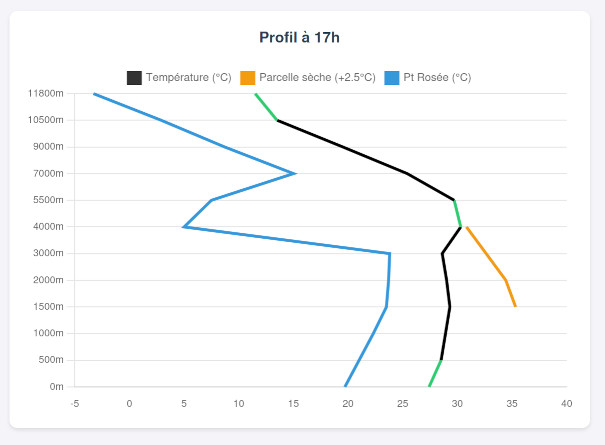
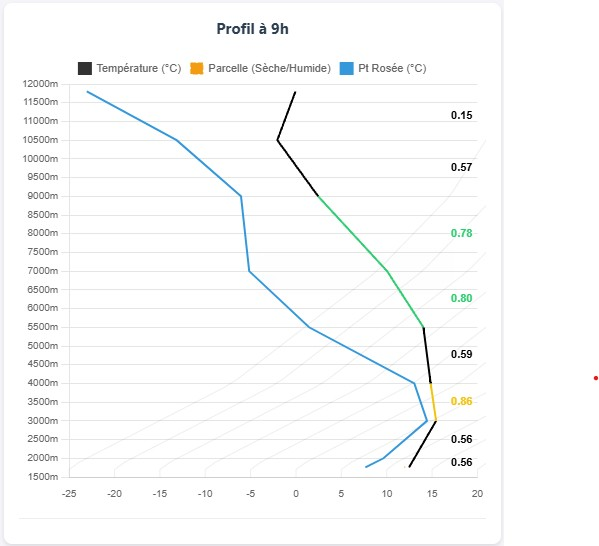
Update screenshots and evol

diff --git a/index.html b/index.html
@@ -107,8 +107,8 @@
             overflow-x: hidden;
             padding: 20px;
             background-color: var(--bg-color);
-            /* border-left supprimé car le resizer joue le rôle de bordure */
             box-shadow: 0 8px 24px rgba(149, 157, 165, 0.15);
+            position: relative; /* Indispensable pour ancrer le menu de configuration ici */
         }
 
         .top-bar {
@@ -1596,6 +1596,7 @@
                             }
 
                             // 2. Dessiner le nuage (zone grise) SI la particule dépasse le LCL
+                            // 2. Dessiner le nuage (zone grise) SI la particule dépasse le LCL
                             if (cloudZone && cloudZone.length === 2) {
                                 const yBottom = y.getPixelForValue(cloudZone[0]); 
                                 const yTop = y.getPixelForValue(cloudZone[1]);    
@@ -1609,6 +1610,55 @@
                                 ctx.fillText('☁', (chartArea.right - chartArea.left) / 2, yTop + Math.max(15, (yBottom - yTop)/2));
                                 ctx.restore();
                             }
+                        }, // <--- Attention à bien ajouter cette virgule
+                        
+                        // --- NOUVEAU : Affichage des valeurs de gradients sur la droite ---
+                        afterDraw: (chart) => {
+                            const { ctx, chartArea, scales: { y } } = chart;
+                            if (!chartArea) return;
+
+                            ctx.save();
+                            ctx.textAlign = 'right';
+                            ctx.textBaseline = 'middle';
+                            ctx.font = 'bold 11px sans-serif';
+                            ctx.lineJoin = 'round';
+
+                            // On parcourt les segments de bas en haut
+                            for (let i = 0; i < envData.length - 1; i++) {
+                                const d0 = envData[i];
+                                const d1 = envData[i+1];
+                                const dz = d1.z - d0.z;
+                                const dt = d0.t - d1.t; 
+                                
+                                if (dz > 0) {
+                                    const lapseRate = (dt / dz) * 100;
+                                    
+                                    // Détermination de la couleur selon vos seuils
+                                    let color = '#000000';
+                                    if (lapseRate >= appConfig.lapse5) color = '#9b59b6';
+                                    else if (lapseRate >= appConfig.lapse4) color = '#e74c3c';
+                                    else if (lapseRate >= appConfig.lapse3) color = '#e67e22';
+                                    else if (lapseRate >= appConfig.lapse2) color = '#f1c40f';
+                                    else if (lapseRate >= appConfig.lapse1) color = '#2ecc71';
+
+                                    // Calcul de la position verticale (au milieu du segment)
+                                    const py0 = y.getPixelForValue(d0.z);
+                                    const py1 = y.getPixelForValue(d1.z);
+                                    const pyMid = (py0 + py1) / 2;
+                                    
+                                    const text = lapseRate.toFixed(2);
+                                    
+                                    // Contour blanc de protection pour la lisibilité
+                                    ctx.lineWidth = 3;
+                                    ctx.strokeStyle = 'rgba(255,255,255,0.8)';
+                                    ctx.strokeText(text, chartArea.right - 5, pyMid);
+                                    
+                                    // Texte coloré
+                                    ctx.fillStyle = color;
+                                    ctx.fillText(text, chartArea.right - 5, pyMid);
+                                }
+                            }
+                            ctx.restore();
                         }
                     }
                 ]

diff --git a/README.md b/README.md
@@ -1,8 +1,8 @@
 # 🌤 Ma Météo
 
-Une application web interactive pour visualiser et analyser les données météorologiques en détail ! 
+Faire sa météo rapidement avant d'aller voller.
 
-Explorez les conditions atmosphériques à travers des cartes intuitives, des tableaux de vent détaillés et des émagrammes professionnels.
+Explorez les conditions atmosphériques facilement.
 
 [Application web](https://01ive.github.io/maMeteo/)
 
@@ -63,71 +63,116 @@ Personnalisez l'affichage des données selon vos besoins et préférences.
 
 #### ☁ Nébulosité
 
-Un nuage se forme lorsque l'air est saturé en humidité (100%). Sur un sondage, cela se traduit visuellement par la rencontre de la courbe de Température et de la courbe du Point de rosée.
+Dans l’interface, la couverture nuageuse affichée n’est pas une valeur brute de l’API. Elle est dérivée de l’humidité relative calculée à partir de la température et du point de rosée :
 
-Il suffit de calculer l'écart entre ces deux valeurs (ce qu'on appelle le Spread).
-* Si $T - T_d \le 1.5^\circ\text{C}$ : C'est un nuage dense (fond gris foncé).
-* Si $T - T_d \le 3.0^\circ\text{C}$ : L'air est très humide, bordure de nuage ou brouillard léger (fond gris très clair).
+$$e(T) = 6.112 \times e^{17.67T / (T + 243.5)}$$
+
+$$RH = \frac{e(T_d)}{e(T)} \times 100$$
+
+Ensuite, l’application applique un proxy visuel de couverture nuageuse :
+
+- si $RH < 80\%$, la valeur est fixée à $0$ ;
+- si $RH \ge 80\%$, elle devient :
+
+$$C_{nuage} = \min\left(100,\,(RH - 80) \times 5\right)$$
+
+Cette valeur sert à l’opacité des cellules de la grille et à la teinte de la zone nuageuse dans l’émagramme. Elle ne représente pas une couverture nuageuse météorologique absolue, mais un indicateur visuel de humidité et de probabilité de présence de nuages.
 
 #### 📈 Instabilité
 
-Pour modéliser le plafond thermique de manière autonome, nous appliquons la méthode météorologique classique du soulèvement de la parcelle d'air :
+Pour modéliser le plafond thermique, l’application simule l’ascension d’une parcelle d’air depuis la surface avec un offset configurable :
 
-- **Le déclencheur** : On prend la température au sol prévue par le modèle à laquelle on ajoute un "déclencheur" de surchauffe (ici $+2.5^\circ\text{C}$) pour simuler une bulle d'air qui se détache du sol.
+$$T_{parcel,0} = T_{base} + \text{parcelOffset}$$
 
-⚠ La température au **sol à 2m** donnée par les models est souvent différente de la température de la **courbe de température**. Celà donne donc lieu à des **décallages**.
+Par défaut, $	ext{parcelOffset} = 0^\circ\text{C}$, mais il peut être modifié dans la configuration.
 
-- **Le gradient adiabatique sec** : On simule la montée de cette bulle. En s'élevant et en se dilatant, elle se refroidit d'environ $0.98^\circ\text{C}$ tous les $100\text{m}$.
+À chaque pas de $20\text{m}$, la parcelle évolue selon deux régimes :
 
-- **Le calcul** : Pour chaque niveau d'altitude $Z$, on calcule la température de la bulle avec la formule : $T_{parcelle} = T_{sol} + 2.5 - \left(\frac{Z}{100} \times 0.98\right)$
+- hors nuage : gradient adiabatique sec :
+  $$\Gamma_{sec} = -0.0098^\circ\text{C/m}$$
+- si la parcelle a atteint la base de nuage estimée par :
+  $$z_{cloudBase} = z_{base} + \max\left(0,\,(T_{base} - T_{d,base}) \times 125\right)$$
+  alors le calcul bascule sur un gradient pseudo-adiabatique humide, avec :
+  $$T_k = T_{parcel} + 273.15$$
+  $$e_s = 6.112 \times e^{17.67T_{parcel}/(T_{parcel} + 243.5)}$$
+  $$w_s = \frac{0.622 \times e_s}{P - e_s}$$
+  $$L = 2501000 - 2370T_{parcel}$$
+  $$\Gamma_{hum} = -\frac{9.80665}{1004} \times \frac{1 + \frac{Lw_s}{287.05T_k}}{1 + \frac{0.622L^2w_s}{1004 \times 287.05 \times T_k^2}}$$
 
-- **L'inversion** : On compare cette température à l'air environnant ($T_{env}$). Tant que $T_{parcelle} \ge T_{env}$, la bulle est plus chaude que l'air autour d'elle et continue de monter. Dès qu'elle devient plus froide, le thermique s'arrête net : c'est notre plafond espéré.
+Après chaque incrément, l’application applique un entraînement de $1\%$ à chaque pas de $20\text{m}$ :
 
-L'algorithme calcule ce processus pour les 24 heures et appliquer un trait rouge en bas de la cellule correspondante.
+$$T_{parcel,new} = T_{parcel} \times 0.99 + T_{env} \times 0.01$$
 
-**La base du nuage** : Si cette bulle invisible atteint le point de saturation (100% d'humidité) pendant sa montée, un nuage commence à se former. C'est le niveau de condensation, et cela correspond généralement à notre trait rouge.
+La parcelle cesse de monter dès que $T_{parcel} \le T_{env}$. Le plafond affiché est alors défini comme suit :
 
-**Le haut du nuage** (⚠ non représenté): Une fois que le nuage se forme, la physique change radicalement. La condensation de la vapeur d'eau en gouttelettes libère de l'énergie (la chaleur latente). L'air à l'intérieur du nuage se refroidit alors beaucoup moins vite en montant (environ 0,5°C tous les 100m). Grâce à ce "moteur" thermique interne, l'air du nuage reste plus chaud que l'extérieur et continue de monter, formant le développement vertical du nuage.
+- dans la grille, le plafond est la hauteur atteinte par la parcelle, puis il est ramené à la base du nuage si la parcelle est entrée dans la zone nuageuse :
+  $$\text{exactAlt} = \max\left(z_{cloudBase}, z_{base}\right) \quad \text{si } \text{exactAlt} > z_{cloudBase}$$
+- dans l’émagramme, la ligne de plafond exploitable correspond à :
+  $$\text{plafondAlt} = \min\left(z_{top}, z_{cloudBase}\right)$$
 
-### 📊 L'émagramme
+Cette logique permet d’afficher un plafond “exploitable” et de bloquer le trait rouge si le thermique entre dans la zone nuageuse.
 
-Le diagramme thermodynamique pour analyser la stabilité atmosphérique et les phénomènes de convection.
+### 📊 L’émagramme
 
-### 🌈 Coloration de l'émagramme
+Le diagramme thermodynamique a été enrichi pour rendre plus lisibles les zones instables, la base des nuages et le plafond exploitable. L’émagramme affiche maintenant :
 
-On colorise la courbe de l'adiabatique séche via le gradient thermique vertical (le taux de refroidissement de l'air avec l'altitude) de la façon suivante :
+- une courbe de température de l’environnement,
+- une parcelle d’air ascendante,
+- un point de rosée,
+- une zone grisée pour représenter la couche nuageuse,
+- une ligne rouge de plafond thermique.
 
-* 🔴 **Rouge** (> 0.9°C/100m) : Masse d'air très instable (proche ou supérieure à l'adiabatique sèche). Les ascendances thermiques seront fortes et l'air monte facilement.
-* ⬛ **Noir** (0.6 à 0.9°C/100m) : Instabilité conditionnelle (ou instabilité latente).
-* 🟢 **Vert** (< 0.6°C/100m) : Masse d'air stable (adiabatique humide, isothermie ou inversion de température). Les mouvements verticaux sont bloqués.
+### 🌈 Coloration de l’émagramme
+
+La coloration de l’émagramme suit le gradient thermique local entre deux niveaux de l’atmosphère, calculé en °C / 100 m selon la formule :
+
+$$\text{lapseRate} = \frac{T_{env}(z_0) - T_{env}(z_1)}{z_1 - z_0} \times 100$$
+
+Dans le code, les seuils par défaut sont ceux définis dans la configuration de l’application :
+
+- **lapse1 = 0.6** : seuil de transition vers le vert
+- **lapse2 = 0.8** : seuil de transition vers le jaune
+- **lapse3 = 1.0** : seuil de transition vers l’orange
+- **lapse4 = 1.2** : seuil de transition vers le rouge
+- **lapse5 = 1.4** : seuil de transition vers le violet
+
+La correspondance utilisée est donc :
+
+* 🟣 **Violet** ($\ge 1.4$ °C/100m) : très forte instabilité, très proche de l’adiabatique sèche.
+* 🔴 **Rouge** ($\ge 1.2$ °C/100m) : forte instabilité.
+* 🟠 **Orange** ($\ge 1.0$ °C/100m) : instabilité marquée.
+* 🟡 **Jaune** ($\ge 0.8$ °C/100m) : instabilité modérée.
+* 🟢 **Vert** ($\ge 0.6$ °C/100m) : couche plutôt stable.
+* ⬛ **Noir** (< 0.6 °C/100m) : stabilité forte, isothermie ou inversion de température.
+
+Cette logique est utilisée pour colorer la courbe de température de l’environnement et rendre immédiatement visibles les couches qui favorisent ou bloquent la convection.
 
 #### 📐 Skew-T (Diagramme incliné)
 
-Dans les représentations météorologiques classiques, on "couche" (on incline) les lignes de température vers la droite. Pourquoi ? Parce que dans la troposphère, la température baisse naturellement avec l'altitude. En inclinant le graphique, une masse d'air standard apparaît comme une ligne verticale, ce qui permet à l'œil humain de repérer beaucoup plus facilement les anomalies, les inversions thermiques et les zones d'instabilité (comme la fameuse CAPE pour les orages ou les thermiques).
+Dans les représentations météorologiques classiques, on incline les lignes de température vers la droite pour compenser la baisse naturelle de température avec l’altitude. L’objectif est d’obtenir une masse d’air standard quasi verticale, ce qui rend beaucoup plus visibles les anomalies et les zones d’instabilité.
 
-Sur un graphique cartésien classique (Température en X, Altitude en Y), la courbe de température d'une atmosphère standard part en diagonale vers la gauche, car l'air se refroidit en montant (on perd environ 6.5°C tous les 1000m).
+Pour reproduire cet effet dans Chart.js, l’application applique à chaque point une déformation X proportionnelle à la chute de pression entre le bas du graphique et le niveau considéré :
 
-Le problème, c'est que l'œil humain repère très mal les petites variations sur une ligne en diagonale. Les météorologues ont donc inventé le Skew-T : ils inclinent ("skew") les lignes de température vers la droite pour compenser ce refroidissement naturel. Ainsi, une masse d'air standard apparaît presque verticale, et la moindre instabilité saute aux yeux.
+$$T_{skew} = T_{reel} + k \times \left(p_{bottom} - p\right)$$
 
-Pour incliner la courbe dans Chart.js (qui ne fait que des graphiques droits), nous appliquons cette formule à chaque point :$$T_{skew} = T_{reel} + k \times (1000 - P)$$
+- $T_{skew}$ : la température fictive utilisée pour le tracé.
+- $T_{reel}$ : la température réelle de l’air.
+- $k$ : le facteur SKEW_FACTOR.
+- $p_{bottom}$ : la pression au bas du graphique, calculée à partir de la base visible de la fenêtre :
+  $$p_{bottom} = \text{getEnvAtZ}(z_{bottom}).hpa$$
+  avec
+  $$z_{bottom} = \left\lfloor \frac{\text{elevation}}{500} \right\rfloor \times 500$$
+- $p$ : la pression du niveau considéré.
 
-$T_{skew}$ : La fausse température donnée au graphique pour décaler le point.
-
-$T_{reel}$ : La vraie température physique.$k$ : Notre fameux SKEW_FACTOR.
-
-$P$ : La pression du palier en hPa.
-
-$1000$ : Notre niveau de référence (le sol).
+Dans l’implémentation actuelle, $p_{bottom}$ n’est donc pas figé à 1000 hPa, mais défini à partir de la zone réellement affichée dans l’émagramme, ce qui rend le décalage cohérent avec la plage d’altitude visible.
 
 ##### 💡 Pourquoi exactement 0.08 ?
 
-Le choix de 0.08 est un compromis visuel parfait pour la taille de notre fenêtre web et notre plage d'altitude. Faisons le calcul avec la plus haute altitude de notre tableau (200 hPa, soit 11 800m) :
+Le choix de 0.08 reste un bon compromis visuel pour la taille de la fenêtre web et la plage d’altitude affichée. Avec un écart de pression d’environ 800 hPa entre le sol et 11 800 m, le décalage appliqué est de :
 
-Différence de pression avec le sol : $1000 - 200 = 800$ hPa.
+$$800 \times 0.08 = 64$$
 
-Décalage appliqué : $800 \times 0.04 = 64$.
-
-Cela signifie qu'au sommet du graphique, le point de température est décalé artificiellement de 64 degrés vers la droite.Si l'on considère qu'au sol il fait 15°C, à 11 800m il fait environ -50°C.Sans décalage, la courbe irait de 15 à -50 (soit un énorme écart visuel de 65 unités vers la gauche, la courbe serait très aplatie).Avec notre décalage de +64, le point haut se place à +14 sur l'axe X ($-50 + 64$). La courbe est redressée, reste au centre de l'écran et imite l'angle de ~45° d'un véritable émagramme papier.
+Ce qui place la courbe de température au centre du graphe et lui donne l’angle caractéristique d’un vrai diagramme Skew-T.
 
 ---
 
